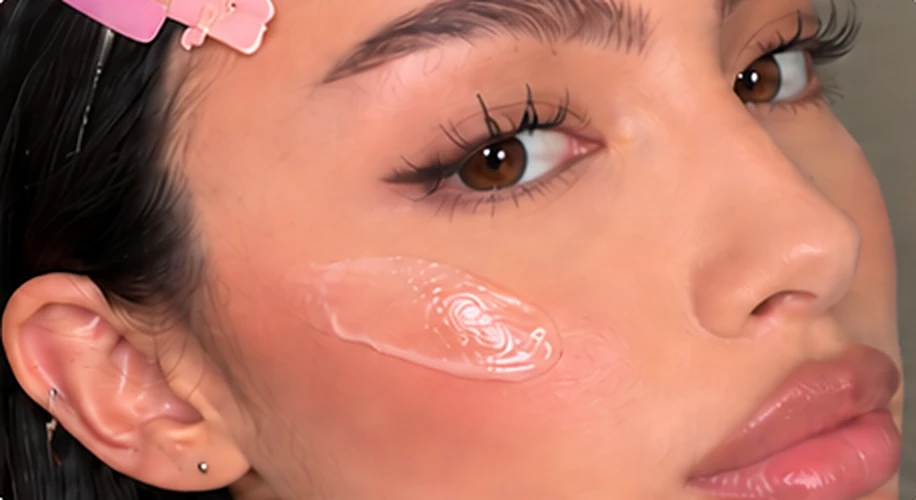
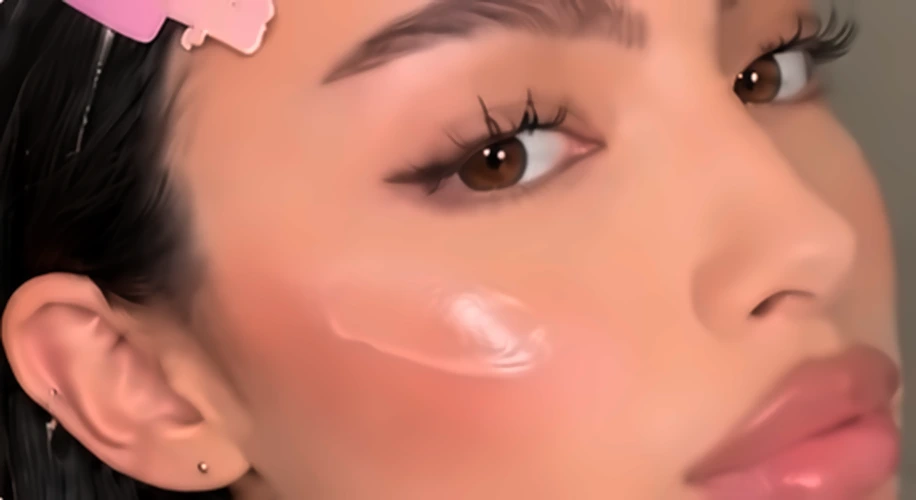
Hero collage: remove grain from all six tiles
Earlier tiles were 2x-upscaled from the reference screenshot and then
sharpened, which amplified its compression noise; the Albina/Huda grades
were heavily sharpened too. Rebuilt every tile: denoise first, Lanczos
upscale, light edge-preserving smoothing, no sharpening. Albina and Huda
now start from the untouched originals.

diff --git a/lib/data/redesign-media.ts b/lib/data/redesign-media.ts
@@ -223,8 +223,8 @@ export const heroFilmRowItems: HeroFilmRowItem[] = [
       { src: '/images/hero/collage/medicube.webp', alt: 'Khutjo at the Medicube event, CA Agency campaign' },
     ],
   },
-  { src: '/images/hero/graded/albina-medicube.webp', alt: 'Albina Mavriqi for Medicube, CA Agency talent', position: '50% 28%', featured: true },
+  { src: '/images/hero/collage/albina.webp', alt: 'Albina Mavriqi for Medicube, CA Agency talent', position: '50% 28%', featured: true },
   { src: '/images/hero/collage/toofaced.webp', alt: 'CA Agency talent at the Too Faced launch event' },
-  { src: '/images/hero/graded/melly-huda-beauty-event.webp', alt: 'Melly at the Huda Beauty event, CA Agency campaign', position: '62% 50%' },
+  { src: '/images/hero/collage/huda.webp', alt: 'Melly at the Huda Beauty event, CA Agency campaign', position: '62% 50%' },
   { src: '/images/hero/collage/rhode.webp', alt: 'Rhode campaign content grid, CA Agency' },
 ]
